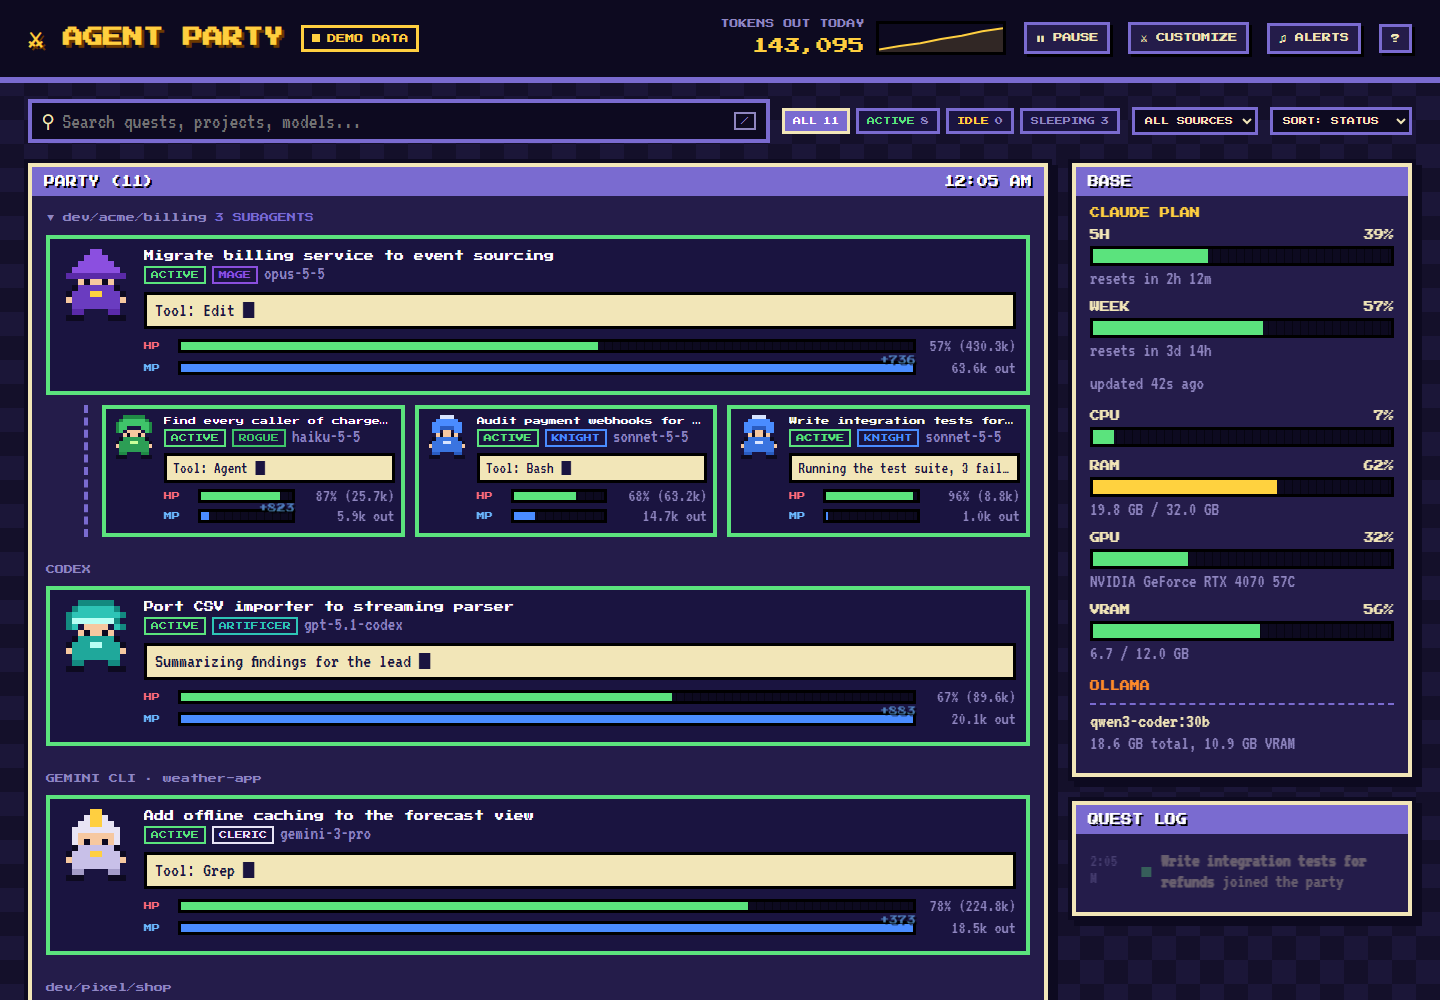
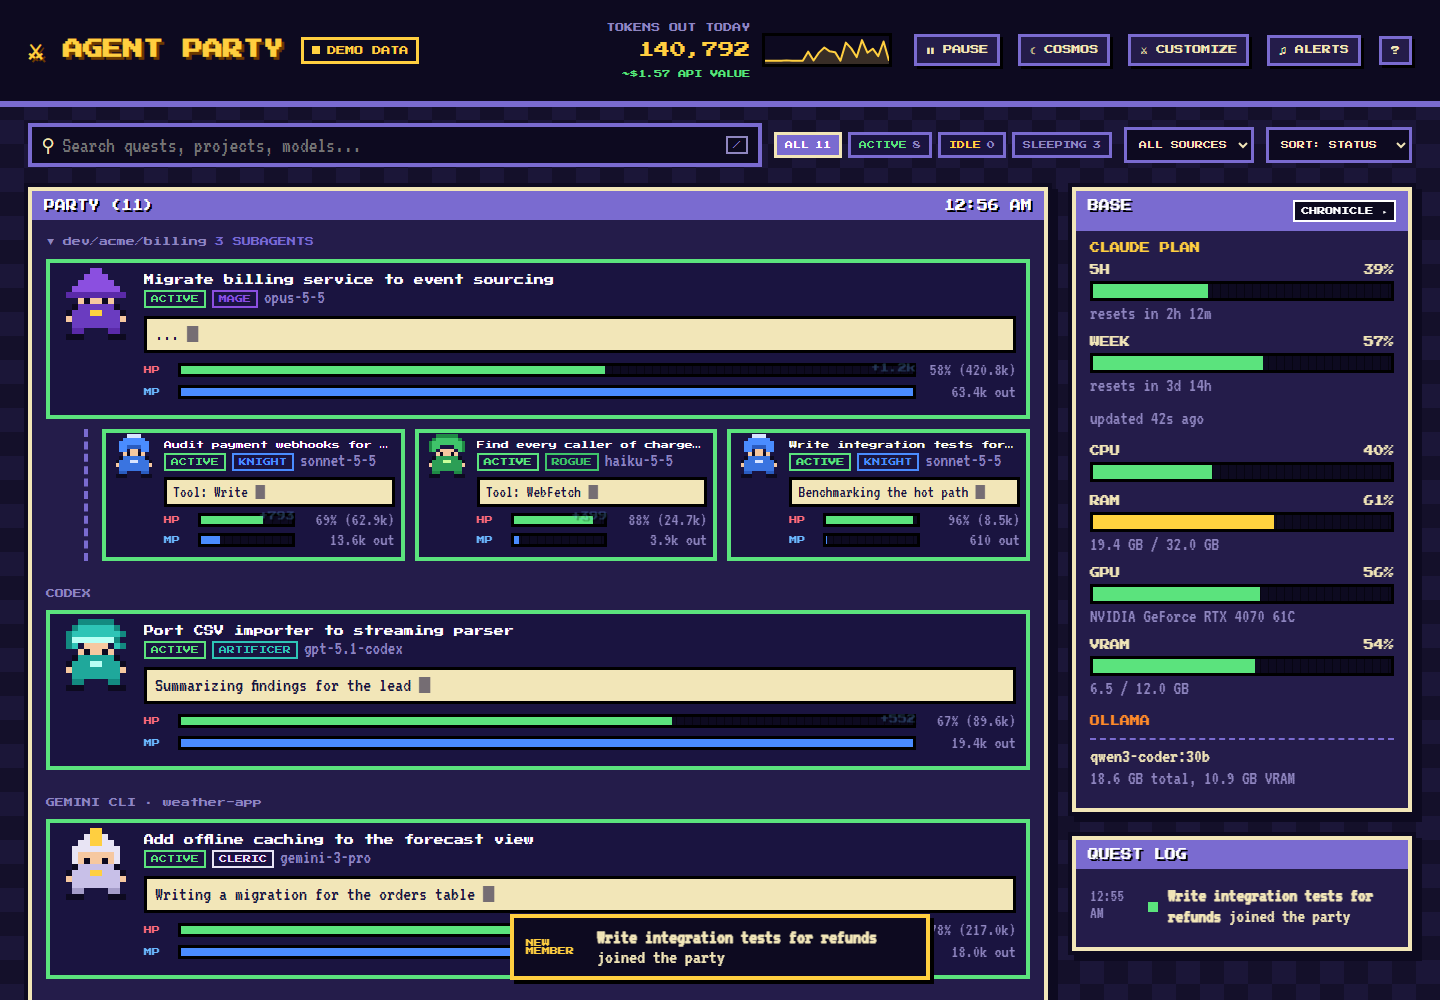
Add LIVE range to the Chronicle and header sparkline

diff --git a/index.html b/index.html
@@ -313,7 +313,7 @@ dialog.xwide{width:min(980px,calc(100vw - 32px))}
 </div></dialog>
 
 <dialog id="chron" class="wide xwide"><h2 class="px dh"><span>CHRONICLE</span><button class="dx" aria-label="Close" onclick="this.closest('dialog').close()">X</button></h2><div class="in">
- <div class="ch-ctl"><div class="seg" role="group" aria-label="Range"><button data-range="24h">24H</button><button data-range="7d">7D</button><button data-range="30d">30D</button></div>
+ <div class="ch-ctl"><div class="seg" role="group" aria-label="Range"><button data-range="live" title="Since this page opened, updates every 2 seconds">LIVE</button><button data-range="24h">24H</button><button data-range="7d">7D</button><button data-range="30d">30D</button></div>
  <div class="seg" role="group" aria-label="Measure"><button data-metric="tokens">TOKENS</button><button data-metric="cost">EST. COST</button></div>
  <div class="seg"><button id="chTable" aria-pressed="false">TABLE</button></div></div>
  <div id="chBody"></div>
@@ -456,11 +456,12 @@ function track(d){
   if(!p){if(!firstLoad){spawned.add(s.id);logEvent('join',s,`<b>${esc(s.name)}</b> joined the party`)}}
   else{
    if(s.tokOut>p.tokOut)gains.set(s.id,s.tokOut-p.tokOut);
+   liveRecord(s,p);
    if(p.status==='active'&&s.status==='idle'){logEvent('done',s,`<b>${esc(s.name)}</b> finished a turn`);notifyDone(s)}
    else if(p.status!=='active'&&s.status==='active')logEvent('wake',s,`<b>${esc(s.name)}</b> is back in action`);
    else if(p.status==='idle'&&s.status==='sleeping')logEvent('sleep',s,`<b>${esc(s.name)}</b> fell asleep`);
   }
-  prev.set(s.id,{status:s.status,tokOut:s.tokOut});
+  prev.set(s.id,{status:s.status,tokOut:s.tokOut,tokIn:s.tokIn||0,cacheRead:s.cacheRead||0,cacheWrite:s.cacheWrite||0,cost:s.cost});
  }
  for(const id of [...prev.keys()])if(!seen.has(id))prev.delete(id);
  hist.push(d.todayTokens);if(hist.length>90)hist.shift();
@@ -549,12 +550,12 @@ function renderHeader(d){
  const m=paused?'paused':mode==='demo'?'demo':everLive&&last&&!last.stale?'live':'offline';
  const pill=$('mode');pill.className='pill '+m;pill.querySelector('span').textContent=m==='demo'?'DEMO DATA':m.toUpperCase();
  // output tokens per hour for the last 24 hours (server or demo history); falls back to totals seen since load
- const series=d.spark&&d.spark.length?d.spark:hist.length>1?hist:null;
+ const liveMode=chron.range==='live',series=liveMode?chronBuckets(live.rows,'live').B.map(b=>b.out):d.spark&&d.spark.length?d.spark:hist.length>1?hist:null;
  if(series){
   const hi=Math.max(...series),W=130,H=34,n=series.length;
   const pts=series.map((v,i)=>`${(i/(n-1)*W).toFixed(1)},${(H-4-(hi?v/hi:0)*(H-9)).toFixed(1)}`).join(' ');
   $('spark').innerHTML=`<polygon points="0,${H} ${pts} ${W},${H}" fill="#ffcf40" opacity=".18"/><polyline points="${pts}" fill="none" stroke="#ffcf40" stroke-width="2" stroke-linejoin="round" vector-effect="non-scaling-stroke"/>`;
-  $('totBtn').title=`Output tokens per hour, last 24 hours (peak ${fmt(hi)}). Click for the Chronicle (H)`;
+  $('totBtn').title=liveMode?`Live: output tokens per 30 seconds, last 15 minutes (peak ${fmt(hi)}). Click for the Chronicle (H)`:`Output tokens per hour, last 24 hours (peak ${fmt(hi)}). Click for the Chronicle (H)`;
  }
  $('clock').textContent=hhmm(d.now);
 }
@@ -616,6 +617,7 @@ function renderDrawer(){
 }
 function render(){
  if(!last)return;
+ if(chron.range==='live'&&$('chron').open&&!$('chBody').matches(':hover'))renderChron();
  renderHeader(last);renderSources(last);renderChips(last);renderParty(last);renderBase(last);renderLog();renderDrawer();
 }
 
@@ -927,7 +929,18 @@ function setTheme(v){
 // ---------- chronicle: usage history, estimated cost, top models and projects ----------
 const money=v=>v>=100?'$'+Math.round(v).toLocaleString():v>=1?'$'+v.toFixed(2):v>0?'$'+v.toFixed(3):'$0';
 const chron={range:store.get('chRange','24h'),metric:store.get('chMetric','tokens'),table:false,data:null,timer:0};
-const RANGES={'24h':{span:24,size:1,label:'24H'},'7d':{span:168,size:6,label:'7D'},'30d':{span:720,size:24,label:'30D'}};
+// LIVE: what changed since this page opened, in 30-second buckets over the last 15 minutes
+const live={rows:[],models:[],projects:[],mi:new Map(),pi:new Map()};
+function liveRecord(s,p){
+ const d=[s.tokOut-p.tokOut,(s.tokIn||0)-p.tokIn,(s.cacheRead||0)-p.cacheRead,(s.cacheWrite||0)-p.cacheWrite];
+ if(!(d[0]>0||d[1]>0))return;
+ const idx=(map,list,key,make)=>{if(!map.has(key)){map.set(key,list.length);list.push(make())}return map.get(key)};
+ const m=idx(live.mi,live.models,s.model||'?',()=>s.model||'?'),pk=s.source+'|'+(s.project||''),pr=idx(live.pi,live.projects,pk,()=>({project:s.project,source:s.source}));
+ const usd=s.cost!=null&&p.cost!=null?Math.max(0,s.cost-p.cost):s.cost!=null?0:-1;
+ live.rows.push([Date.now(),m,pr,...d.map(v=>Math.max(0,v)),usd]);
+ const cut=Date.now()-16*6e4;while(live.rows.length&&live.rows[0][0]<cut)live.rows.shift();
+}
+const RANGES={live:{span:.25,size:1/120,label:'LIVE'},'24h':{span:24,size:1,label:'24H'},'7d':{span:168,size:6,label:'7D'},'30d':{span:720,size:24,label:'30D'}};
 
 // Deterministic fake month of usage for the hosted demo.
 function demoHistory(){
@@ -958,6 +971,12 @@ async function loadChron(){
 function openChron(){$('chron').showModal();renderChron();loadChron()}
 
 function chronBuckets(rows,range){
+ if(range==='live'){
+  const S=3e4,end=Math.floor(Date.now()/S)*S,B=[];
+  for(let k=29;k>=0;k--)B.push({t:end-k*S,end:end-k*S+S,out:0,in:0,cr:0,cw:0,usd:0,unpriced:false});
+  for(const r of rows){const i=Math.floor((r[0]-B[0].t)/S);if(i<0||i>29)continue;const b=B[i];b.out+=r[3];b.in+=r[4];b.cr+=r[5];b.cw+=r[6];if(r[7]>=0)b.usd+=r[7];else b.unpriced=true}
+  return {B,from:B[0].t};
+ }
  const R=RANGES[range],now=new Date(),end=new Date(now);end.setMinutes(0,0,0);
  let start;
  if(R.size===24){start=new Date(end);start.setHours(0,0,0,0);start.setDate(start.getDate()-29)}
@@ -974,6 +993,7 @@ function chronBuckets(rows,range){
  return {B,from:B[0].t};
 }
 const bucketLabel=(t,range,long)=>{const d=new Date(t);
+ if(range==='live')return d.toLocaleTimeString([],{hour:'2-digit',minute:'2-digit',second:long?'2-digit':undefined});
  if(range==='24h')return d.toLocaleTimeString([],{hour:'2-digit',minute:'2-digit'});
  if(range==='7d')return long?d.toLocaleDateString([],{weekday:'short',day:'numeric'})+' '+d.toLocaleTimeString([],{hour:'2-digit',minute:'2-digit'}):d.toLocaleDateString([],{weekday:'short'});
  return d.toLocaleDateString([],{month:'short',day:'numeric'})};
@@ -984,7 +1004,7 @@ function renderChron(){
  document.querySelectorAll('#chron [data-range]').forEach(b=>b.setAttribute('aria-pressed',b.dataset.range===chron.range));
  document.querySelectorAll('#chron [data-metric]').forEach(b=>b.setAttribute('aria-pressed',b.dataset.metric===chron.metric));
  $('chTable').setAttribute('aria-pressed',chron.table);
- const d=chron.data;
+ const d=chron.range==='live'?{ready:true,...live}:chron.data;
  if(!d||!d.ready){
   $('chBody').innerHTML=`<div class="empty px">${d?.missing?'HISTORY IS NOT AVAILABLE<br>FROM THIS SERVER':'READING YOUR HISTORY...<br>THE FIRST SCAN CAN TAKE A MINUTE'}</div>`;return;
  }
@@ -998,11 +1018,11 @@ function renderChron(){
   <div class="ch-tile"><span>OUTPUT TOKENS</span><b>${fmt(tot.out)}</b></div>
   <div class="ch-tile"><span>INPUT + CACHE</span><b>${fmt(tot.in+tot.cr+tot.cw)}</b><small>${fmt(tot.cr)} read from cache</small></div>
   <div class="ch-tile"><span>EST. COST</span><b>${money(tot.usd)}</b><small>${unpriced.size?'excludes unpriced models':'at API rates'}</small></div>
-  <div class="ch-tile"><span>BUSIEST ${R.size===1?'HOUR':R.size===6?'STRETCH':'DAY'}</span><b>${val(peak)?bucketLabel(peak.t,chron.range,true):'-'}</b><small>${val(peak)?fv(val(peak)):''}</small></div></div>`;
+  <div class="ch-tile"><span>BUSIEST ${R.size===1?'HOUR':R.size===6?'STRETCH':R.size===24?'DAY':'30 SEC'}</span><b>${val(peak)?bucketLabel(peak.t,chron.range,true):'-'}</b><small>${val(peak)?fv(val(peak)):''}</small></div></div>`;
  const step=Math.max(1,Math.ceil(B.length/8));
  const chart=chron.table?`<div class="ch-tablewrap"><table class="ch-table"><thead><tr><th>${R.size===24?'DAY':'TIME'}</th><th>OUTPUT</th><th>INPUT</th><th>CACHE READ</th><th>CACHE WRITE</th><th>EST. COST</th></tr></thead><tbody>${
    B.slice().reverse().filter(b=>b.out||b.in).map(b=>`<tr><td>${bucketLabel(b.t,chron.range,true)}</td><td>${fmt(b.out)}</td><td>${fmt(b.in)}</td><td>${fmt(b.cr)}</td><td>${fmt(b.cw)}</td><td>${money(b.usd)}${b.unpriced?'*':''}</td></tr>`).join('')||'<tr><td colspan="6">No usage in this range</td></tr>'}</tbody></table></div>`
-  :`<div class="ch-chart" role="img" aria-label="${cost?'Estimated cost':'Output tokens'} per ${R.size===24?'day':R.size===6?'6 hours':'hour'}">
+  :`<div class="ch-chart" role="img" aria-label="${cost?'Estimated cost':'Output tokens'} per ${R.size===24?'day':R.size===6?'6 hours':R.size===1?'hour':'30 seconds'}">
    ${[1,.5,0].map(f=>`<div class="ch-grid" style="bottom:${f*100}%"><span>${fv(max*f)}</span></div>`).join('')}
    <div class="ch-bars">${B.map((b,i)=>`<button class="ch-bar" data-i="${i}" aria-label="${esc(bucketLabel(b.t,chron.range,true))}: ${fv(val(b))}"><i style="height:${val(b)/max*100}%"></i></button>`).join('')}</div>
    <div class="ch-x">${B.map((b,i)=>`<span>${i%step===0?esc(bucketLabel(b.t,chron.range)):''}</span>`).join('')}</div>
@@ -1014,7 +1034,7 @@ function renderChron(){
    return `<div class="ch-rank"><span class="nm"><i style="background:${col}"></i>${esc(name)}</span><span class="v">${cost&&a.unpriced&&!a.usd?'no price':fv(v)}</span><div class="ch-track"><b style="width:${v/top*100}%"></b></div></div>`}).join(''):'<div class="sm">Nothing yet</div>';
  };
  $('chBody').innerHTML=tiles+chart+`<div class="ch-two"><section><div class="sec">BY MODEL</div>${rank(1)}</section><section><div class="sec">BY PROJECT</div>${rank(2)}</section></div>`
-  +`<p class="sm">${cost?'Estimated at Anthropic API list prices. Subscription plans are billed differently, so treat this as the API value of your work.':'Output tokens are what the models wrote. Input includes tokens re-read from cache.'}${unpriced.size?` No price for ${[...unpriced].slice(0,4).map(esc).join(', ')}${unpriced.size>4?'…':''}: add them to <code>~/.agent-party/pricing.json</code>.`:''} History covers Claude Code and Codex.</p>`;
+  +`<p class="sm">${cost?'Estimated at Anthropic API list prices. Subscription plans are billed differently, so treat this as the API value of your work.':'Output tokens are what the models wrote. Input includes tokens re-read from cache.'}${unpriced.size?` No price for ${[...unpriced].slice(0,4).map(esc).join(', ')}${unpriced.size>4?'…':''}: add them to <code>~/.agent-party/pricing.json</code>.`:''} ${chron.range==='live'?'LIVE counts what changed since you opened this page, across every tool.':'History covers Claude Code and Codex.'}</p>`;
  chron.B=B;
 }
 $('chBody').addEventListener('mouseover',e=>{
